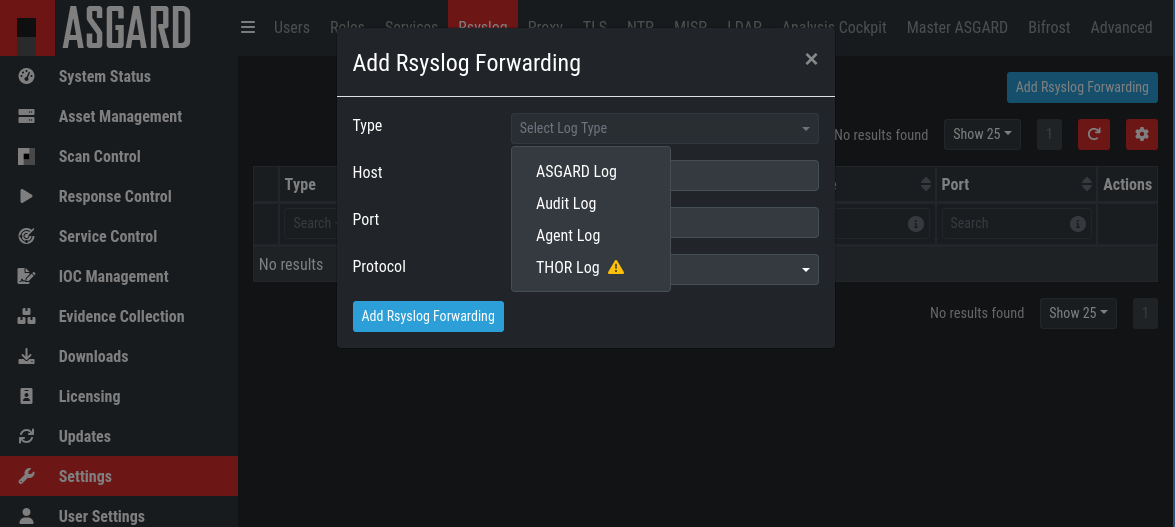
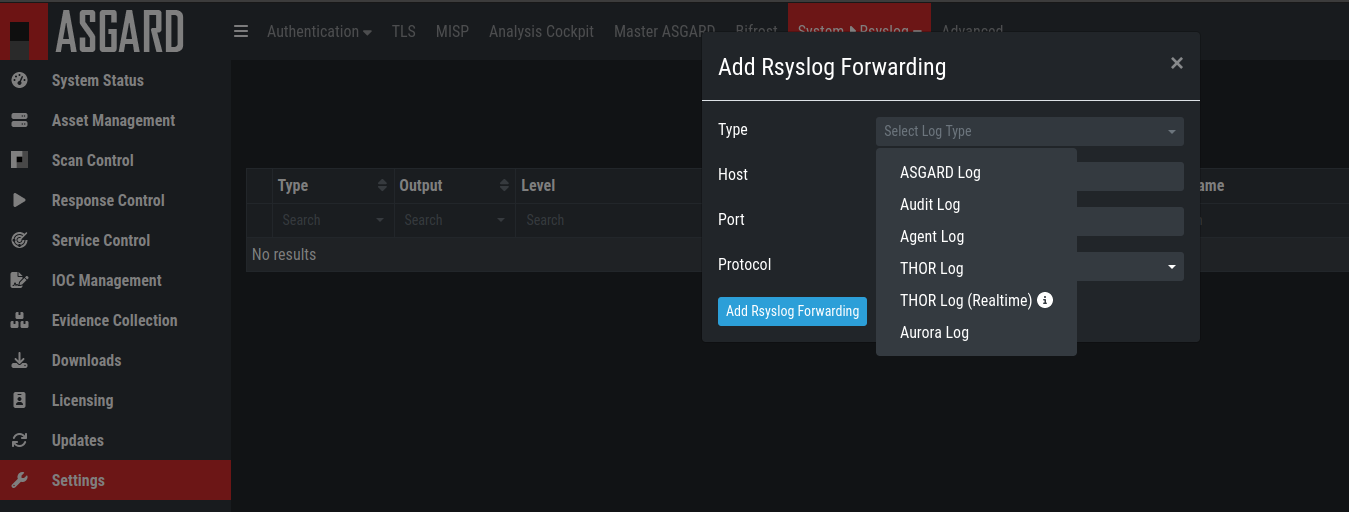
feat: add 2.14 features and changes

diff --git a/conf.py b/conf.py
@@ -29,8 +29,8 @@ author = 'Stephan Kaiser, Florian Roth, Christian Burkard'
 # ones.
 extensions = [
     'recommonmark',
-    'sphinx.ext.autosectionlabel'
-
+    'sphinx.ext.autosectionlabel',
+    'linuxdoc.rstFlatTable'
 ]
 
 # Add any paths that contain templates here, relative to this directory.
@@ -60,7 +60,7 @@ html_css_files = [
     'css/custom.css',
 ]
 
-# Master 
+# Master
 master_doc = 'index'
 
 # Enable -- to -

diff --git a/usage/administration.rst b/usage/administration.rst
@@ -200,8 +200,84 @@ The import function processes the values in the columns ``Add Labels ...`` and `
 
    Asset Labling via CSV
 
+Asset Query
+^^^^^^^^^^^
+
+You can search for Assets in your ASGARD with the Asset Query. This allows you to write more complex queries to search for assets.
+
+.. flat-table::
+   :header-rows: 1
+   :widths: 30, 70
+
+   * - Operator
+     - Example
+   * - :rspan:`1` **Equals**
+     - hostname = "win10-dev"
+   * - cpu_count = 1
+   * - **Contains**
+     - hostname contains "win"
+   * - **Begins With**
+     - hostname begins with "win"
+   * - **Ends With**
+     - hostname ends with "dev"
+   * - :rspan:`5` **Numerical Comparison**
+     - total_memory >= 4 GB
+   * - last_seen < 3 days ago (assets that have not been seen since 3 days)
+   * - last_seen > 1 hour ago (assets that have been seen in the last hour)
+   * - last_scan_completed < 2022-08-17 (assets that have not been scanned since 2022-08-17)
+   * - last_scan_completed < 2022-08-17 15:00:00 (assets that have not been scanned since 2022-08-17 15:00:00)
+   * - last_scan_completed is never
+   * - **Boolean**
+     - is_domain_controller is true
+   * - :rspan:`1` **Not**
+     - not hostname contains "win"
+   * - not hostname ends with "dev"
+   * - **And**
+     - hostname contains "win" and not hostname ends with "dev"
+   * - **Or**
+     - hostname begins with "dev" or hostname ends with "dev"
+   * - **Nested**
+     - hostname ends with "dev" and (hostname contains "win" or hostname contains "lin")
+   * - :rspan:`1` **Set / Not Set**
+     - labels is set (assets that have at least one label)
+   * - labels is not set (assets that have no labels)
+   * - **Regular Expression**
+     - hostname matches "^[a-z0-9]{(0,6)}$"
+   * - :rspan:`2` **Pattern**
+     - **Use _ to match any single character and % to match an arbitrary number of characters, including zero characters.**
+   * -  arch like "a__64" (matches amd64 and arm64, but not aarch64)
+   * -  arch like "%64" (all 64 bit systems, e.g. amd64, arm64, aarch64 or ppc64)
+   * - **IP Range**
+     - interfaces = "172.28.30.1/24"
+
+.. note::
+   Optionally: You can also create group tasks with an asset query instead of labels
+
+Delete Assets
+^^^^^^^^^^^^^
+
+Deleting Assets will remove the assets from the ``Active Only`` asset view and will invalidate the authentication for these assets.
+
+To delete an asset, go to the ``Asset Management`` View and mark the assets you want to delete. Click the ``Delete Assets`` Button on the top right corner. Confirm that you want to delete the asset.
+
+To see all the deleted assets, change your view from ``Active Only`` to ``Deleted Only``.
+
+.. warning::
+   Deleted assets can no longer communicate with the ASGARD. Please use with caution.
+
+.. figure:: ../images/asset-view-deleted-assets.png
+   :target: ../_images/asset-view-deleted-assets.png
+   :alt: Deleted Assets
+
+   Deleted Assets View
+
 Scan Control
 ------------
+
+The Scan Control in your ASGARD allows you to run different kind of Scans on one or multiple assets. Additionally, you can create Scan Templates to use with new Scans, so the different options don't need to be configured for every new scan.
+False-Positive Filters can be set to exclude certain files from scan results, or even whole directories can be excluded.
+
+Your ASGARD will also take care of THOR scans which stopped (e.g. the asset rebooted or lost connection to your ASGARD during a scan), so that a scan will not fail if the asset is temporarily offline.
 
 Managing Scan Templates
 ^^^^^^^^^^^^^^^^^^^^^^^
@@ -260,6 +336,19 @@ Within this form, you can choose the maximum runtime, module, scanner, scan flag
 
 After the desired parameters have been set, the scan can be started by clicking the ``Add Scan`` button.
 
+Create a Single Scan for multiple Assets
+~~~~~~~~~~~~~~~~~~~~~~~~~~~~~~~~~~~~~~~~
+
+If you want to run a Single Scan - instead of a Group Scan - on multiple Assets, you can do this by navigating to the ``Asset Management`` View and select the assets you want to scan.
+
+Click the ``Add Scan`` button in the top right corner and fill in the scan options. This will create a Single Scan for each asset.
+
+.. figure:: ../images/asset-management-multiple-single-scan.png
+   :target: ../_images/asset-management-multiple-single-scan.png
+   :alt: Scan Control - Multiple Single Scans
+
+   Scan Control - Multiple Single Scans
+
 Stopping a Single Scan
 ~~~~~~~~~~~~~~~~~~~~~~
 
@@ -313,8 +402,8 @@ As with the single scans, various parameters can be set. Aside from the already 
      - Value
    * - **Description**
      - Freely selectable name for the group scan.
-   * - **Asset Labels**
-     - Here you can define which assets will be affected by the group scan. In case more than one label is chosen: An asset must have at least one chosen label attached to it to be affected by the scan. If no label is selected, all known assets will be scanned.
+   * - **Scan Target**
+     - Here you can define which assets will be affected by the group scan. You can either use the ``Simple`` target option, which uses labels, or you can use the ``Advanced`` target options, which makes use of labels or asset queries. Leaving this option empty will scan all assets.
    * - **Limit**
      - ASGARD will not send additional scans to the agents when the client limit is reached. Therefore you need to set a limit higher than the number of hosts you want to scan or enter ``0`` for no limit. If you are using MASTER ASGARD, this limit is applied on each single selected ASGARD.
    * - **Rate**
@@ -505,7 +594,8 @@ In this example, we collect a full triage package.
 
 ASGARD ships with pre-defined playbooks for the following tasks:
 
-
+* Collect ASGARD Agent Log
+* Create and Collect Aurora Agent Diagnostics Pack (Windows only)
 * Collect full triage pack (Windows only)
 * Isolate endpoint (Windows only)
 * Collect system memory
@@ -572,6 +662,17 @@ If you need custom files for your playbook (scripts, configurations, binaries, e
 
 You can have up to 16 steps in each playbook that are executed sequentially. Every step can be either "download something from ASGARD to the endpoint", "execute a command line" or "upload something from the endpoint to ASGARD". If you run a command line the stdout and stderr are reported back to ASGARD. 
 
+Change the Asset(s) Proxy
+^^^^^^^^^^^^^^^^^^^^^^^^^
+
+You can change the Proxy Settings on your Assets via the Response Control. To do this, select the asset(s) and click ``Add Task`` in the top right corner.
+Next, set the Module to ``Maintenance`` and the Maintenance Type to ``Configure the asset's proxy``. You can now set your proxy. Multiple proxies can be set, though only one FQDN/IP-Address per field can be set.
+
+.. figure:: ../images/response-control-proxy.png
+   :target: ../_images/response-control-proxy.png
+   :alt: Change/Set an assets Proxy
+
+   Change/Set an assets Proxy
 
 Service Control
 ---------------
@@ -1251,6 +1352,8 @@ Editing a user account does not require a password although the fields are shown
 
 Access the user roles in ``Settings`` > ``Roles``. 
 
+You can download a list of all users in csv Format.
+
 Roles
 ^^^^^
 
@@ -1387,7 +1490,11 @@ The following log sources can be forwarded individually:
    * - Agent Log
      - All ASGARD agent activities
    * - THOR Log
-     - THOR scan results (available if scan config has ``Syslog to ASGARD`` enabled, see :ref:`usage/administration:Syslog Forwarding`)
+     - THOR scan results
+   * - Thor Log (Realtime)
+     - The THOR (Realtime) logs are the same logs as THOR logs, except that they are collected via udp syslog instead of https. To forward THOR logs in realtime, you have to configure your scans to forward syslog to ASGARD, see :ref:`usage/administration:Syslog Forwarding`). Make sure the necessary firewall rules are in place to allow the asset to communicate with the ASGARD.
+   * - Aurora Log
+     - Aurora Logs
 
 TLS Certificate Installation
 ^^^^^^^^^^^^^^^^^^^^^^^^^^^^
@@ -1461,7 +1568,7 @@ In order to automatically collect suspicious files, you have to create a scan wi
 
 This will collect all files with a score of 60 or higher and make them available for download in ASGARDs ``Collected Files`` section.
 
-For Details on how to automatically forward to a sandbox system please refer to the Analysis Cockpit manual.
+For Details on how to automatically forward to a sandbox system please refer to the `Analysis Cockpit Manual <https://analysis-cockpit-manual.nextron-systems.com/en/latest>`_ .
 
 Link Analysis Cockpit
 ^^^^^^^^^^^^^^^^^^^^^

diff --git a/usage/masterasgard.rst b/usage/masterasgard.rst
@@ -98,6 +98,19 @@ The only differences are:
 * ASGARD column shows to which ASGARD system the endpoint is connected
 * Only CSV export is allow (asset labeling via CSV import is unavailable)
 
+Agent Migration
+^^^^^^^^^^^^^^^
+
+You can move an asset from one ASGARD to another via your Master ASGARD. To do this, navigate to ``Asset Management`` and select the assets you want to migrate.
+You can now Click the ``Add Task`` button to open the Task Menu. Choose the ``Maintenance`` Module and then the ``Move asset to another ASGARD`` Type. You have to upload an agent installer from the ASGARD you want to migrate the asset to.
+
+.. figure:: ../images/master-asgard-move-asset.png
+   :target: ../images/master-asgard-move-asset.png
+   :alt: MASTER ASGARD Move Asset
+
+.. note::
+   The target OS or Arch of the installer doesn't matter, we will only use the installers configuration data.
+
 IOC Management
 --------------
 
@@ -122,7 +135,13 @@ All collected evidence is available in MASTER ASGARD's ``Evidence Collection`` s
 Download Section 
 ----------------
 
-The ``Downloads`` section of MASTER ASGARD doesn't contain scanner packages since the scanners get downloaded and maintained on each of the connected ASGARD servers only. 
+The ``Downloads`` section of MASTER ASGARD allows to generate and download Agent Installers on all your connected ASGARDs. This allows for a central management of the Installers.
+
+.. figure:: ../images/master-asgard-download-section.png
+   :target: ../_images/master-asgard-download-section.png
+   :alt: Example: Download Section in ASGARD but managed by MASTER ASGARD
+
+   Example: Download Section in ASGARD but managed by MASTER ASGARD
 
 Updates
 -------

diff --git a/usage/commandline.rst b/usage/commandline.rst
@@ -163,6 +163,8 @@ Go to ``Downloads`` > ``Agent Installers`` > ``Add Agent Installer``. Edit the p
 
    Custom Agent Installer from the WebUI
 
+You can also delete old Agent Installers which are not needed anymore. Just select the Installer(s) and Click the ``Delete`` button in the top right corner.
+
 Creating Custom Agent Installer From CLI (deprecated)
 ^^^^^^^^^^^^^^^^^^^^^^^^^^^^^^^^^^^^^^^^^^^^^^^^^^^^^
 
